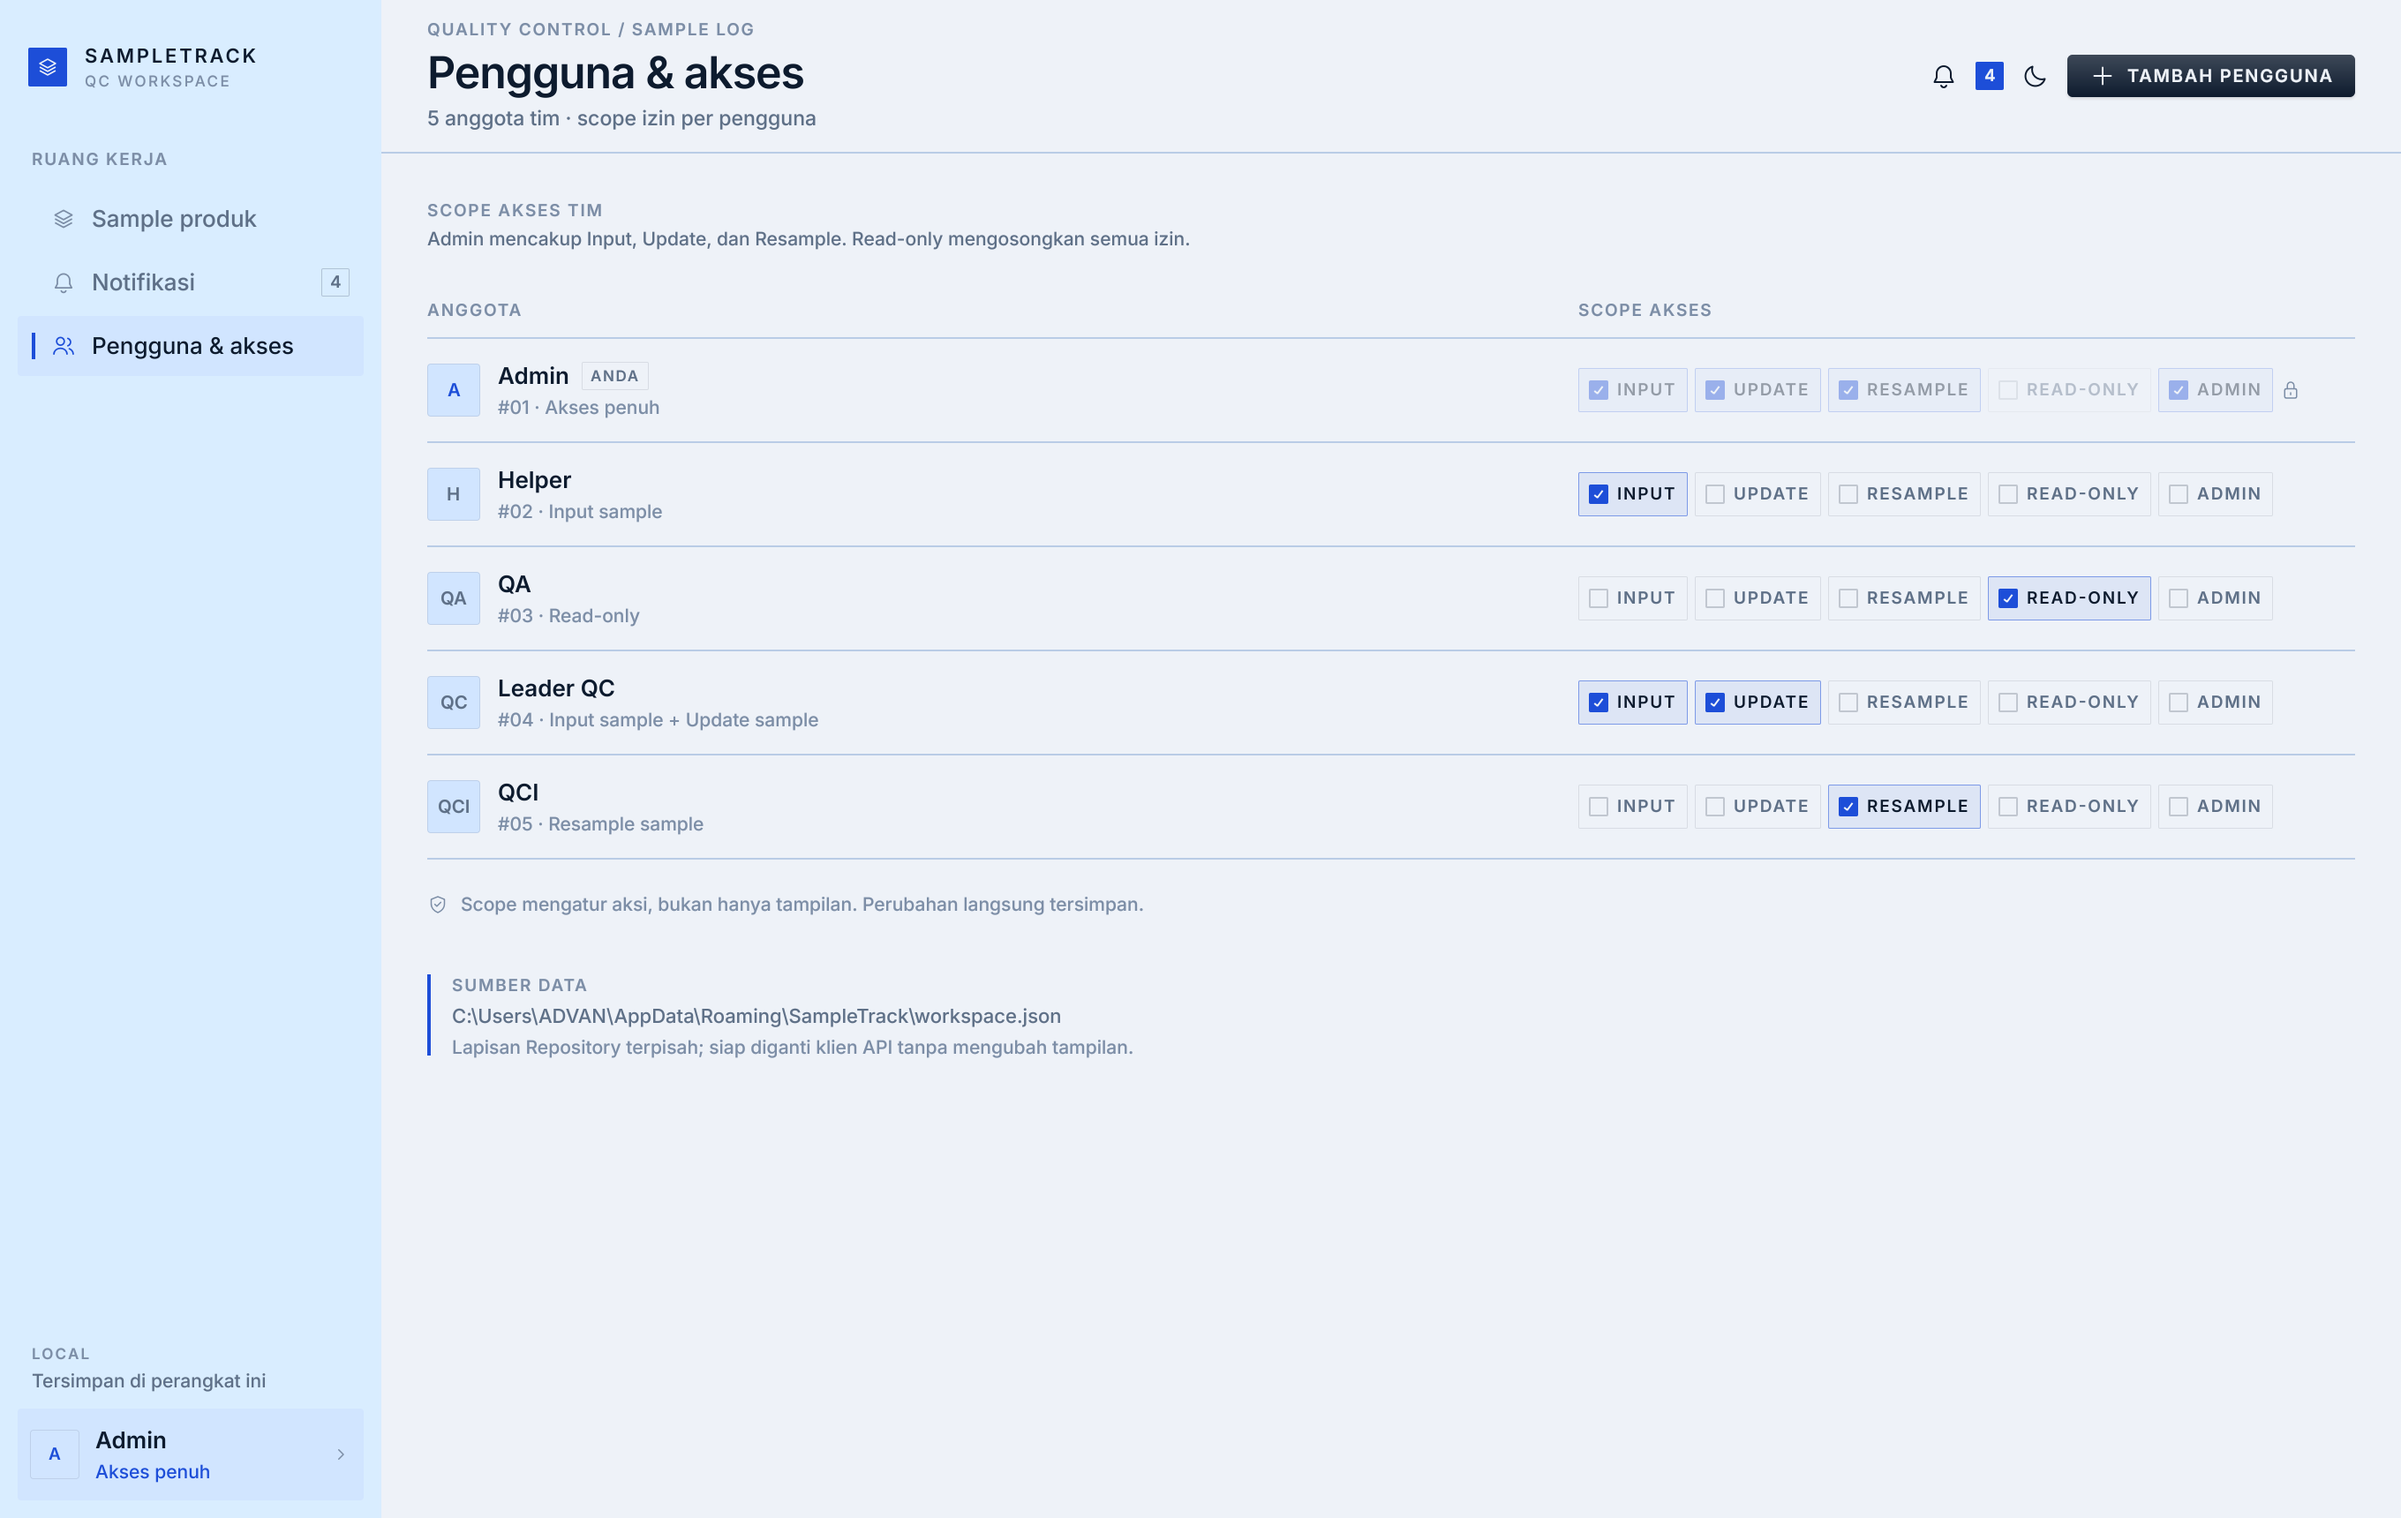
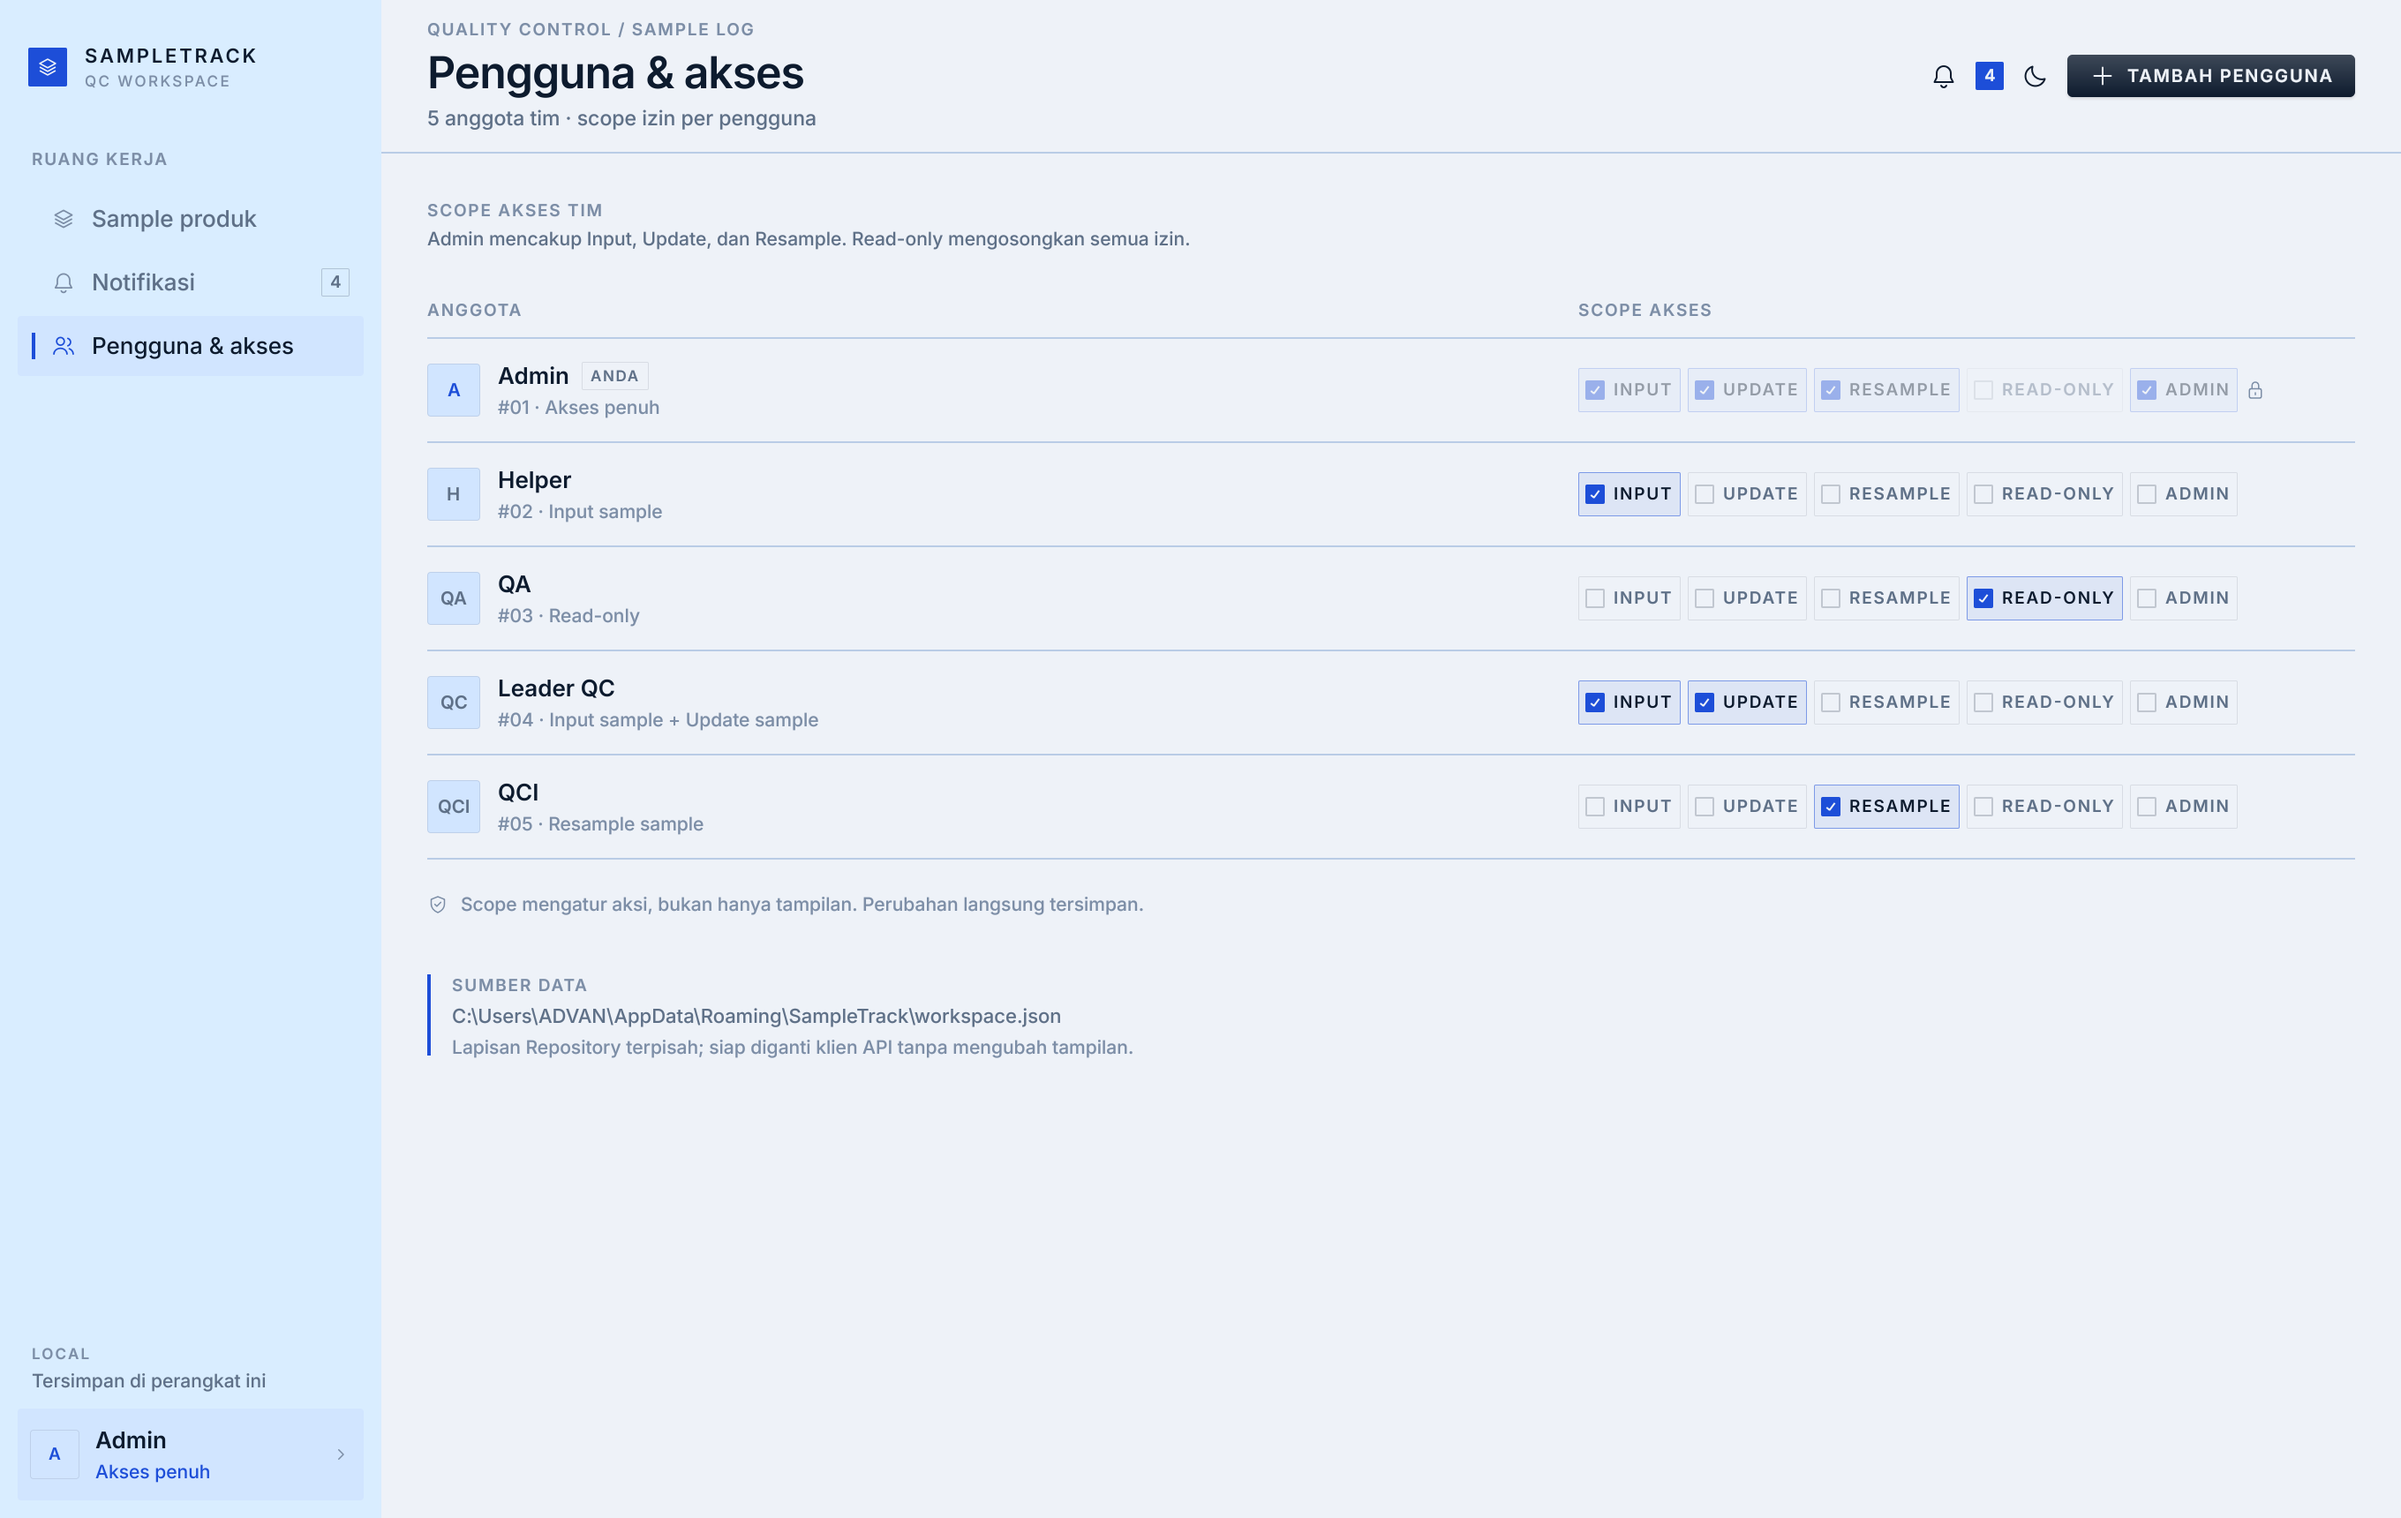
Refresh screenshots for the blue mobile layout

diff --git a/src/ui/widgets.rs b/src/ui/widgets.rs
@@ -315,7 +315,7 @@ pub fn scope_toggle(
     };
     let mut e = row()
         .h(25.0)
-        .px(6.0)
+        .px(4.0)
         .gap(5.0)
         .center_y()
         .radius(1.0)
